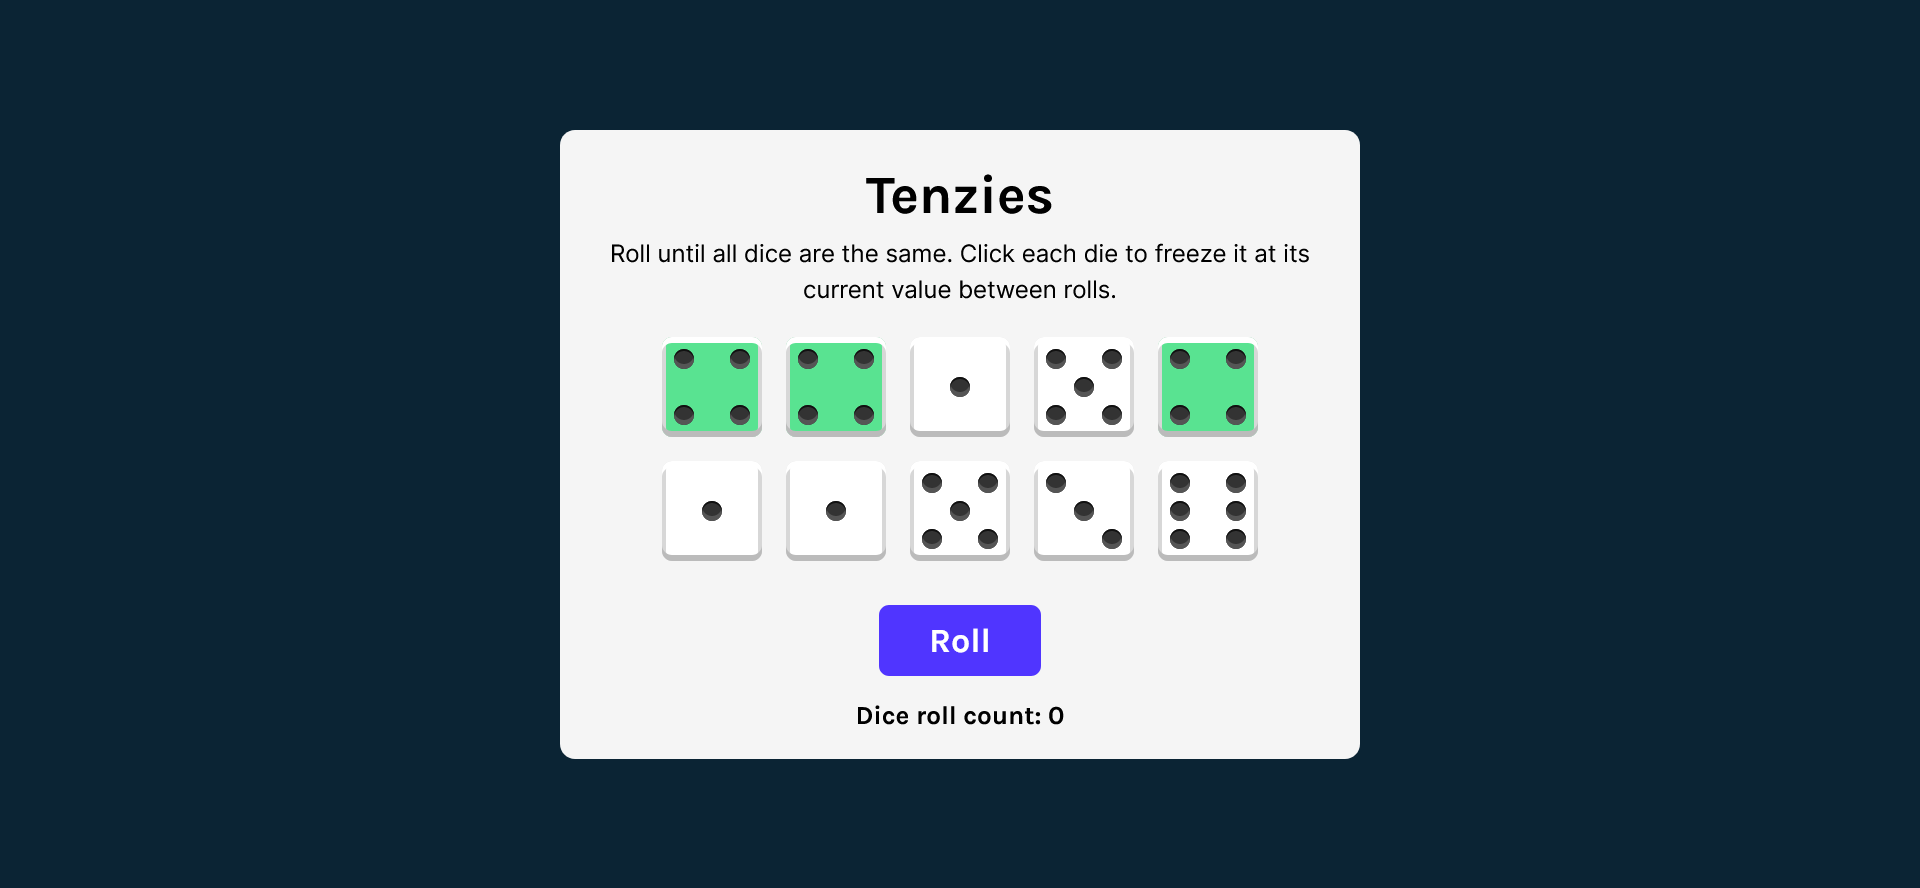
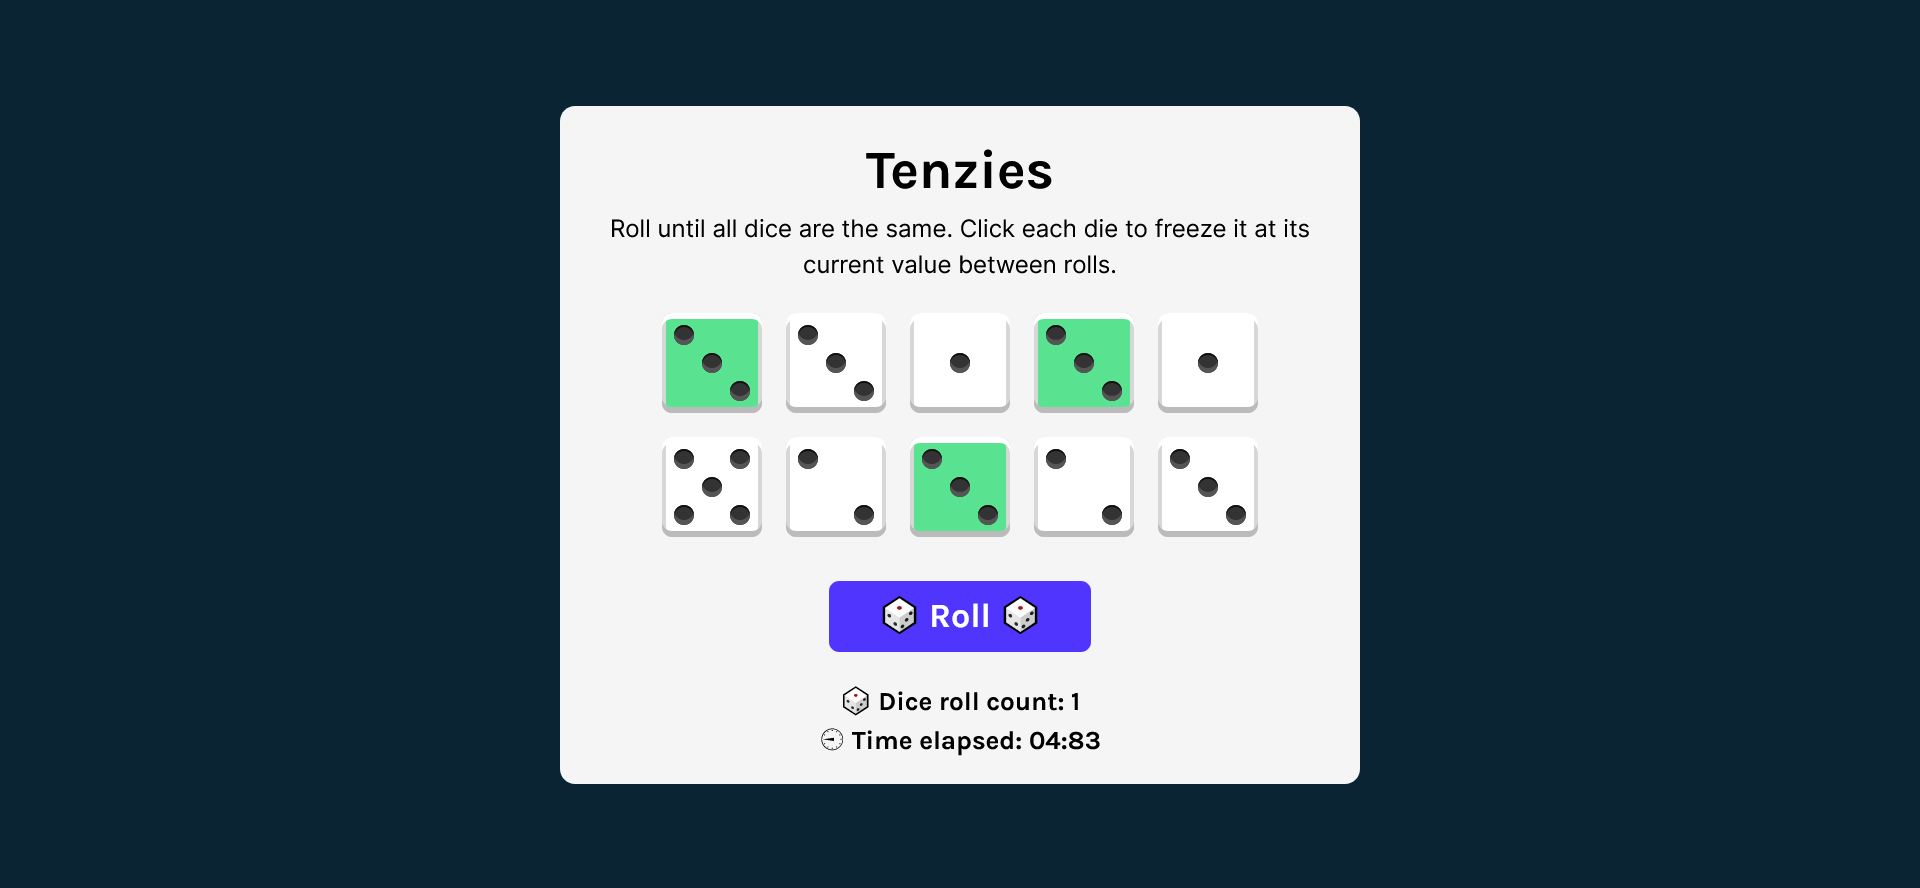
Added time tracker

Changed region(s): [[0.2812, 0.1216, 0.7188, 0.8818]]

diff --git a/src/App.jsx b/src/App.jsx
@@ -8,6 +8,8 @@ function App() {
     const [dice, setDice] = useState(allNewDice());
     const [tenzies, setTenzies] = useState(false);
     const [rollCount, setRollCount] = useState(0);
+    const [time, setTime] = useState(0);
+    const [running, setRunning] = useState(false);
     
     useEffect(() => {
         const allHeld = dice.every((die) => die.isHeld);
@@ -15,8 +17,21 @@ function App() {
         const allSameValue = dice.every((die) => die.value === firstValue);
         if (allHeld && allSameValue) {
             setTenzies(true);
+            setRunning(false);
         }
-    }, [dice])
+    }, [dice]);
+
+    useEffect(() => {
+        let interval;
+        if (running) {
+            interval = setInterval(() => {
+                setTime((prevTime) => prevTime + 10);
+            }, 10);
+        } else if (!running) {
+            clearInterval(interval);
+        }
+        return () => clearInterval(interval);
+    }, [running]);
 
     function generateNewDie() {
         return {
@@ -37,6 +52,7 @@ function App() {
     function rollDice() {
         if(!tenzies) {
             setRollCount((prevCount) => prevCount + 1);
+            setRunning(true);
 
             setDice((oldDice) => oldDice.map(die => {
                 return die.isHeld ? 
@@ -47,10 +63,13 @@ function App() {
             setTenzies(false);
             setDice(allNewDice());
             setRollCount(0);
+            setRunning(false);
         }
     }
     
     function holdDice(id) {
+        setRunning(true);
+        
         setDice((oldDice) => oldDice.map(die => {
             return die.id === id ? 
                 {...die, isHeld: !die.isHeld} :
@@ -66,6 +85,8 @@ function App() {
             holdDice={() => holdDice(die.id)}
         />
     ));
+
+    const displayHours = ("0" + Math.floor((time / 60000) % 60)).slice(-2) + ":";
     
     return (
         <main>
@@ -80,9 +101,14 @@ function App() {
                 className="roll-dice" 
                 onClick={rollDice}
             >
-                {tenzies ? "New Game" : "Roll"}
+                {tenzies ? "🎲 New Game 🎲" : "🎲 Roll 🎲"}
             </button>
-            <p className='game-stats'>Dice roll count: {rollCount}</p>
+            <p className='game-stats'>🎲 Dice roll count: {rollCount}</p>
+            <p className='game-stats'>
+                ⏲ Time elapsed: {displayHours > 0 && displayHours}
+                {("0" + Math.floor((time / 1000) % 60)).slice(-2)}:
+                {("0" + ((time / 10) % 100)).slice(-2)}
+            </p>
         </main>
     )
 }

diff --git a/src/App.css b/src/App.css
@@ -145,7 +145,7 @@ main {
     font-size: 1.7rem;
     font-family: 'Karla', sans-serif;
     cursor: pointer;
-    margin: 1rem 0;
+    margin: 1rem 0 1.5rem 0;
 }
 
 .roll-dice:focus {

diff --git a/README.md b/README.md
@@ -12,13 +12,15 @@ Built with Vite + React.
 
 Cased on the Tenzies game tutorial from Scrimba's [Learn React course](https://scrimba.com/learn/learnreact). However, I have made enhancements to the code to improve the app, including:
 
-- Put real dots on the dice using CSS
-- Use relative units in CSS
-- Make the app responsive to different screen sizes
-- Added dice roll count
+- Putting real dots on the dice using CSS
+- Using relative units in CSS
+- Making the app responsive to different screen sizes
+- Adding dice roll count
+- Added a timer to track the time it took to win
 
 ## Credits:
 
 - Scrimba's [Learn React course](https://scrimba.com/learn/learnreact) - tutorial to create this game
 - [Flaticon](https://www.flaticon.com/) -  for the dice vector image that is used as the page's favicon
 - [Creating dice using CSS grid 🎲 ](https://dev.to/ekeijl/creating-dice-using-css-grid-j4) by Edwin ([@ekeijl](https://dev.to/ekeijl) on DEV Community)
+- [Create a custom React stopwatch timer component](https://w3collective.com/react-stopwatch/) by w3collective - The time tracker feature of the game is based on this tutorial
